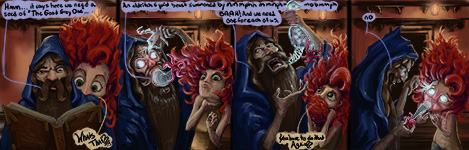
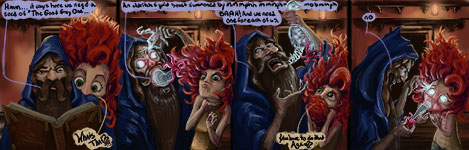
Content replace with jpg

Changed region(s): [[0.6269, 0.9067, 0.6567, 0.9333], [0.3881, 0.56, 0.4179, 0.5867], [0.0896, 0.24, 0.1194, 0.2667]]

diff --git a/index.html b/index.html
@@ -47,7 +47,7 @@
 				<div id="redge">
 				</div>
 			</div>
-			<img src="Img/logo.png">
+			<img src="Img/logo.jpg">
 
 			<nav><ul>
 				<li> <a  style="color: #660099;" href="#">Portfolio</a></li>
@@ -73,12 +73,12 @@
 									<p>Contract work I completed under Spech.Tech for the Barnes Foundation’s mobile app Keys to the Collection. My responsibilities included but were not limited to upgrading their broken Unity 4 lighting to the new Unity 5 system, improving lighting visual quality, and maintaining low memory use.</p>
 									<div>
 										<ul class="cbImgCol">
-											<li>	<a class="BARNES_Gallery" href="Img/Content Posts/BARNES_Gal_01.png"> <img title="P1" src="Img/Content Posts/BARNES_CBGal_01.png"> </a> </li>
-											<li>	<a class="BARNES_Gallery" href="Img/Content Posts/BARNES_Gal_02.png"> <img title="P1" src="Img/Content Posts/BARNES_CBGal_02.png"> </a> </li>
-											<li>	<a class="BARNES_Gallery" href="Img/Content Posts/BARNES_Gal_09.png"> <img title="P1" src="Img/Content Posts/BARNES_CBGal_09.png"> </a> </li>
-											<li>	<a class="BARNES_Gallery" href="Img/Content Posts/BARNES_Gal_14.png"> <img title="P1" src="Img/Content Posts/BARNES_CBGal_14.png"> </a> </li>
-											<li>	<a class="BARNES_Gallery" href="Img/Content Posts/BARNES_Gal_18.png"> <img title="P1" src="Img/Content Posts/BARNES_CBGal_18.png"> </a> </li>
-											<li>	<a class="BARNES_Gallery" href="Img/Content Posts/BARNES_Gal_19.png"> <img title="P1" src="Img/Content Posts/BARNES_CBGal_19.png"> </a> </li>
+											<li>	<a class="BARNES_Gallery" href="Img/Content Posts/BARNES_Gal_01.png"> <img title="P1" src="Img/Content Posts/BARNES_CBGal_01.jpg"> </a> </li>
+											<li>	<a class="BARNES_Gallery" href="Img/Content Posts/BARNES_Gal_02.png"> <img title="P1" src="Img/Content Posts/BARNES_CBGal_02.jpg"> </a> </li>
+											<li>	<a class="BARNES_Gallery" href="Img/Content Posts/BARNES_Gal_09.png"> <img title="P1" src="Img/Content Posts/BARNES_CBGal_09.jpg"> </a> </li>
+											<li>	<a class="BARNES_Gallery" href="Img/Content Posts/BARNES_Gal_14.png"> <img title="P1" src="Img/Content Posts/BARNES_CBGal_14.jpg"> </a> </li>
+											<li>	<a class="BARNES_Gallery" href="Img/Content Posts/BARNES_Gal_18.png"> <img title="P1" src="Img/Content Posts/BARNES_CBGal_18.jpg"> </a> </li>
+											<li>	<a class="BARNES_Gallery" href="Img/Content Posts/BARNES_Gal_19.png"> <img title="P1" src="Img/Content Posts/BARNES_CBGal_19.jpg"> </a> </li>
 										</ul>
 											<script>jQuery("a.BARNES_Gallery").colorbox({rel:'BARNES_Gallery', width:"70%", height:"70%"});</script>
 									</div>
@@ -186,12 +186,12 @@
 
 									<p>Concept art at early stage of development, showing the hub character that represents the player, the expected game world style, and plans for coding interface.</p>
 									<ul class="cbImgRow">
-										<a class="SING_Gallery" href="Img/Content Posts/SI1_UI.png"> <img title="SI1" src="Img/Content Posts/SI1_CBUI.png"> </a>
+										<a class="SING_Gallery" href="Img/Content Posts/SI1_UI.png"> <img title="SI1" src="Img/Content Posts/SI1_CBUI.jpg"> </a>
 									</ul>
 
 									<p>Concept art depicting the planned aesthetics for fog of war in Singularity.  Fog of war would allow us make sure every puzzle contained at least 2 phases, discovery and action.</p>
 									<ul class="cbImgRow">
-										<a class="SING_Gallery" href="Img/Content Posts/SI2_FW.png"> <img title="SI2" src="Img/Content Posts/SI2_CBFW.png"> </a>
+										<a class="SING_Gallery" href="Img/Content Posts/SI2_FW.png"> <img title="SI2" src="Img/Content Posts/SI2_CBFW.jpg"> </a>
 									</ul>
 										<script>jQuery("a.SING_Gallery").colorbox({rel:'SING_Gallery', width:"60%", height:"90%"});</script>
 								<p>This animation shows the interface at the end of prototyping. Players could Move code chunks to up to 5 scalable windows, edit that code, print the code into the console, and close coding windows to clear their contents.</p>
@@ -237,8 +237,8 @@ During My time on Twitch I have constructed a professional grade stream setup in
 							<div>
 								<p>An art Commission undertaken in the early part of 2015, and finished over the course of 2 weeks.</p>
 							</div>
-							<a href="http://imgur.com/IbLYPNt" title="Portrait" target="_blank"><img class="fullImage" src="Img/Content Posts/ACOM_MH_Portrait.png"></a>
-							<a href="http://imgur.com/IG6M3tt" title="Logo" target="_blank"><img class="fullImage" src="Img/Content Posts/ACOM_MH_logo.png"></a>
+							<a href="http://imgur.com/IbLYPNt" title="Portrait" target="_blank"><img class="fullImage" src="Img/Content Posts/ACOM_MH_Portrait.jpg"></a>
+							<a href="http://imgur.com/IG6M3tt" title="Logo" target="_blank"><img class="fullImage" src="Img/Content Posts/ACOM_MH_logo.jpg"></a>
 
 
 						</div><!--Accordian Div-->
@@ -258,9 +258,9 @@ During My time on Twitch I have constructed a professional grade stream setup in
 									A long term publication project. I provide concept art that drives the creative process, and print ready assets for use in publication.
 								</p>
 							</div>
-							<img class="fullImage" src="Img/Content Posts/US_Enspiriter_Work.png">
-							<img class="fullImage" src="Img/Content Posts/US_Goblin_2_Work.png">
-							<img class="fullImage" src="Img/Content Posts/US_Goblin_1_Work.png">
+							<img class="fullImage" src="Img/Content Posts/US_Enspiriter_Work.jpg">
+							<img class="fullImage" src="Img/Content Posts/US_Goblin_2_Work.jpg">
+							<img class="fullImage" src="Img/Content Posts/US_Goblin_1_Work.jpg">
 
 						</div><!--Accordian Div-->
 
@@ -287,13 +287,13 @@ During My time on Twitch I have constructed a professional grade stream setup in
 								</p>
 							</div>
 
-							<img class="fullImage" src="Img/Content Posts/FF_Work_Zombie.png">
+							<img class="fullImage" src="Img/Content Posts/FF_Work_Zombie.jpg">
 							<div>
 								<p>
 									This image is a creation of my own idea, a second painting for the youtube banner to fill out some of the remainign real estate.
 								</p>
 							</div>
-							<img class="fullImage" src="Img/Content Posts/FF_Work_Icon.png">
+							<img class="fullImage" src="Img/Content Posts/FF_Work_Icon.jpg">
 							<div>
 								<p>
 									Another idea of my own devising to help further the ForcefulFalcon brand, quite literally a forceful, albeit cute, falcon. This design was received very
@@ -314,9 +314,9 @@ During My time on Twitch I have constructed a professional grade stream setup in
 						</h3>
 						<div><!--Accordian Div-->
 							A Work In Progress put on hiatus recently because of an influx of commissions.
-							<img class="fullImage" src="Img/Content Posts/CT_Work_01.png">
-							<img class="fullImage" src="Img/Content Posts/CT_Work_02.png">
-							<img class="fullImage" src="Img/Content Posts/CT_Work_03.png">
+							<img class="fullImage" src="Img/Content Posts/CT_Work_01.jpg">
+							<img class="fullImage" src="Img/Content Posts/CT_Work_02.jpg">
+							<img class="fullImage" src="Img/Content Posts/CT_Work_03.jpg">
 
 						</div><!--Accordian Div-->
 
@@ -332,11 +332,11 @@ During My time on Twitch I have constructed a professional grade stream setup in
 							</h3>
 							<div><!--Accordian Div-->
 							<p>My Original Concept</p>
-							<img class="fullImage" src="Img/Content Posts/SD_Concept.png">
+							<img class="fullImage" src="Img/Content Posts/SD_Concept.jpg">
 							<p>The Rig Structure</p>
-							<img class="fullImage" src="Img/Content Posts/SD_Rig.png">
+							<img class="fullImage" src="Img/Content Posts/SD_Rig.jpg">
 							<p>Finished Modelling</p>
-							<img class="fullImage" src="Img/Content Posts/SD_Modeled.png">
+							<img class="fullImage" src="Img/Content Posts/SD_Modeled.jpg">
 							<p>
 							My second venture into creating art assets for the Dota 2 workshop and store. Valve's Shadow Demon Character is rigged oddly. his shoulder joints are located near his neck, up behind the clavicle.  This placement allows for theunmoving platform around his shoulders, on wich spikes can sit and remain stable, while maintaining appropriate movement in the shoulders. creating shoulder pads for this character is made difficult by this.  They cannot be created as a single peice, like my concept, but must be separated into multiple independently moving pieces.
 							</p>
@@ -382,10 +382,10 @@ During My time on Twitch I have constructed a professional grade stream setup in
 									<p>My First venture into creating art assets for the Dota 2 workshop and store. During the course of my time at Drexel university I encountered and mastered every aspect of creating characters for games and animation.  However the 5-10 week development schedules of projects at Drexel never left enough time to really dig into a single object or character and bring it to a professional level of detail. The goal of this personal project was to give myself a chance to create more meticulously crafted models. Every Texture for this armer set was meticulously hand painted in Photoshop using the same techniques employed in my digital art. Though an incredibly rewarding and fulfilling project, It illustrated for me the virtue of creating a pipeline that reaches similar quality goals but utilizes more than just my painting skills. In my following projects I have endeavoured to find a balance between this direct approache and more procedural approaches to asset generation.</p>
 								</div>
 								<div>
-									<img class="fullImage" src="Img/Content Posts/Sven_Head_NL.png">
+									<img class="fullImage" src="Img/Content Posts/Sven_Head_NL.jpg">
 								</div>
 								<div>
-									<img class="fullImage" src="Img/Content Posts/SvenLoadScrn.png">
+									<img class="fullImage" src="Img/Content Posts/SvenLoadScrn.jpg">
 								</div>
 							</div><!--Accordian Div-->
 						</article>
@@ -593,7 +593,7 @@ During My time on Twitch I have constructed a professional grade stream setup in
 								</div>
 								<p> The Rig</p>
 								<div>
-									<img class="fullImage" src="Img/Content Posts/OldManRig.PNG">
+									<img class="fullImage" src="Img/Content Posts/OldManRig.jpg">
 								</div>
 								<p>My first facial rig, created over the course of 10 weeks for my Character Animation II course at Drexel University. The character was modeled in Zbrush, rigged and animated and rendered in Maya, then composited in nuke. </p>
 
